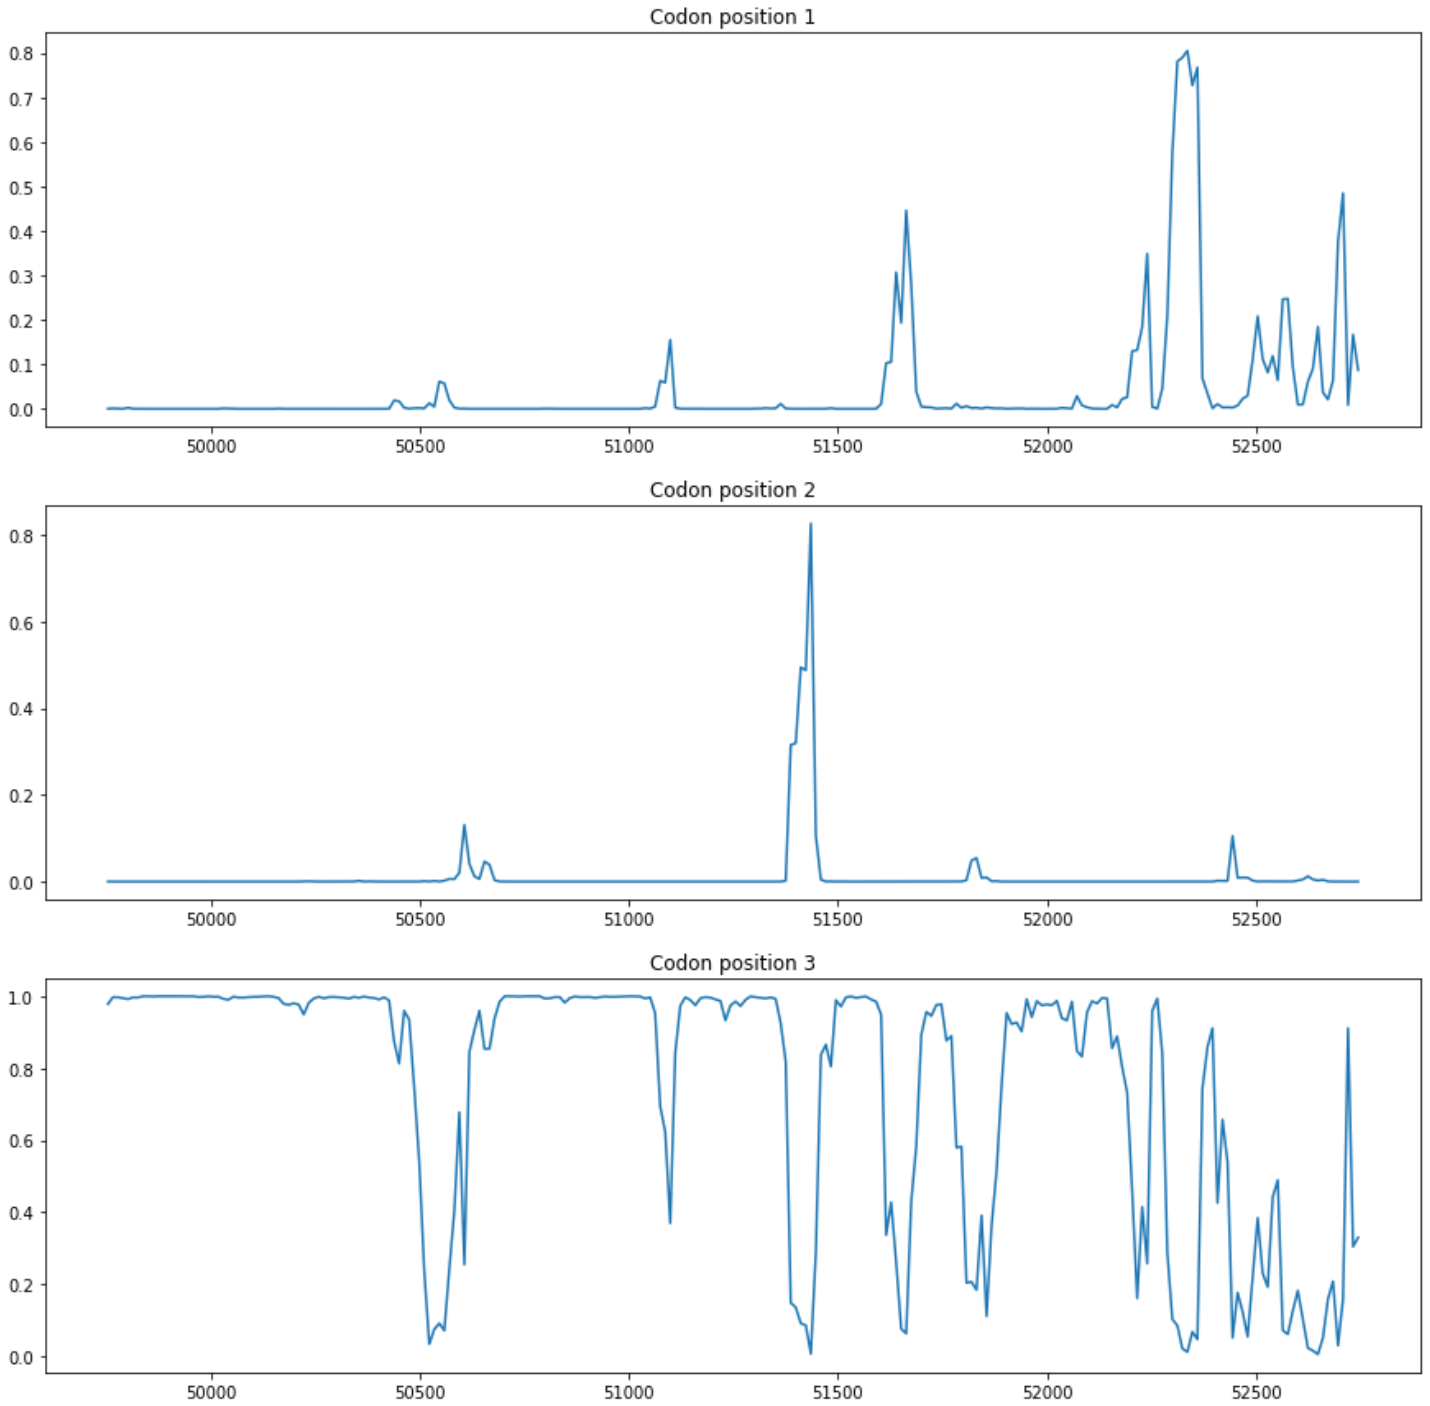
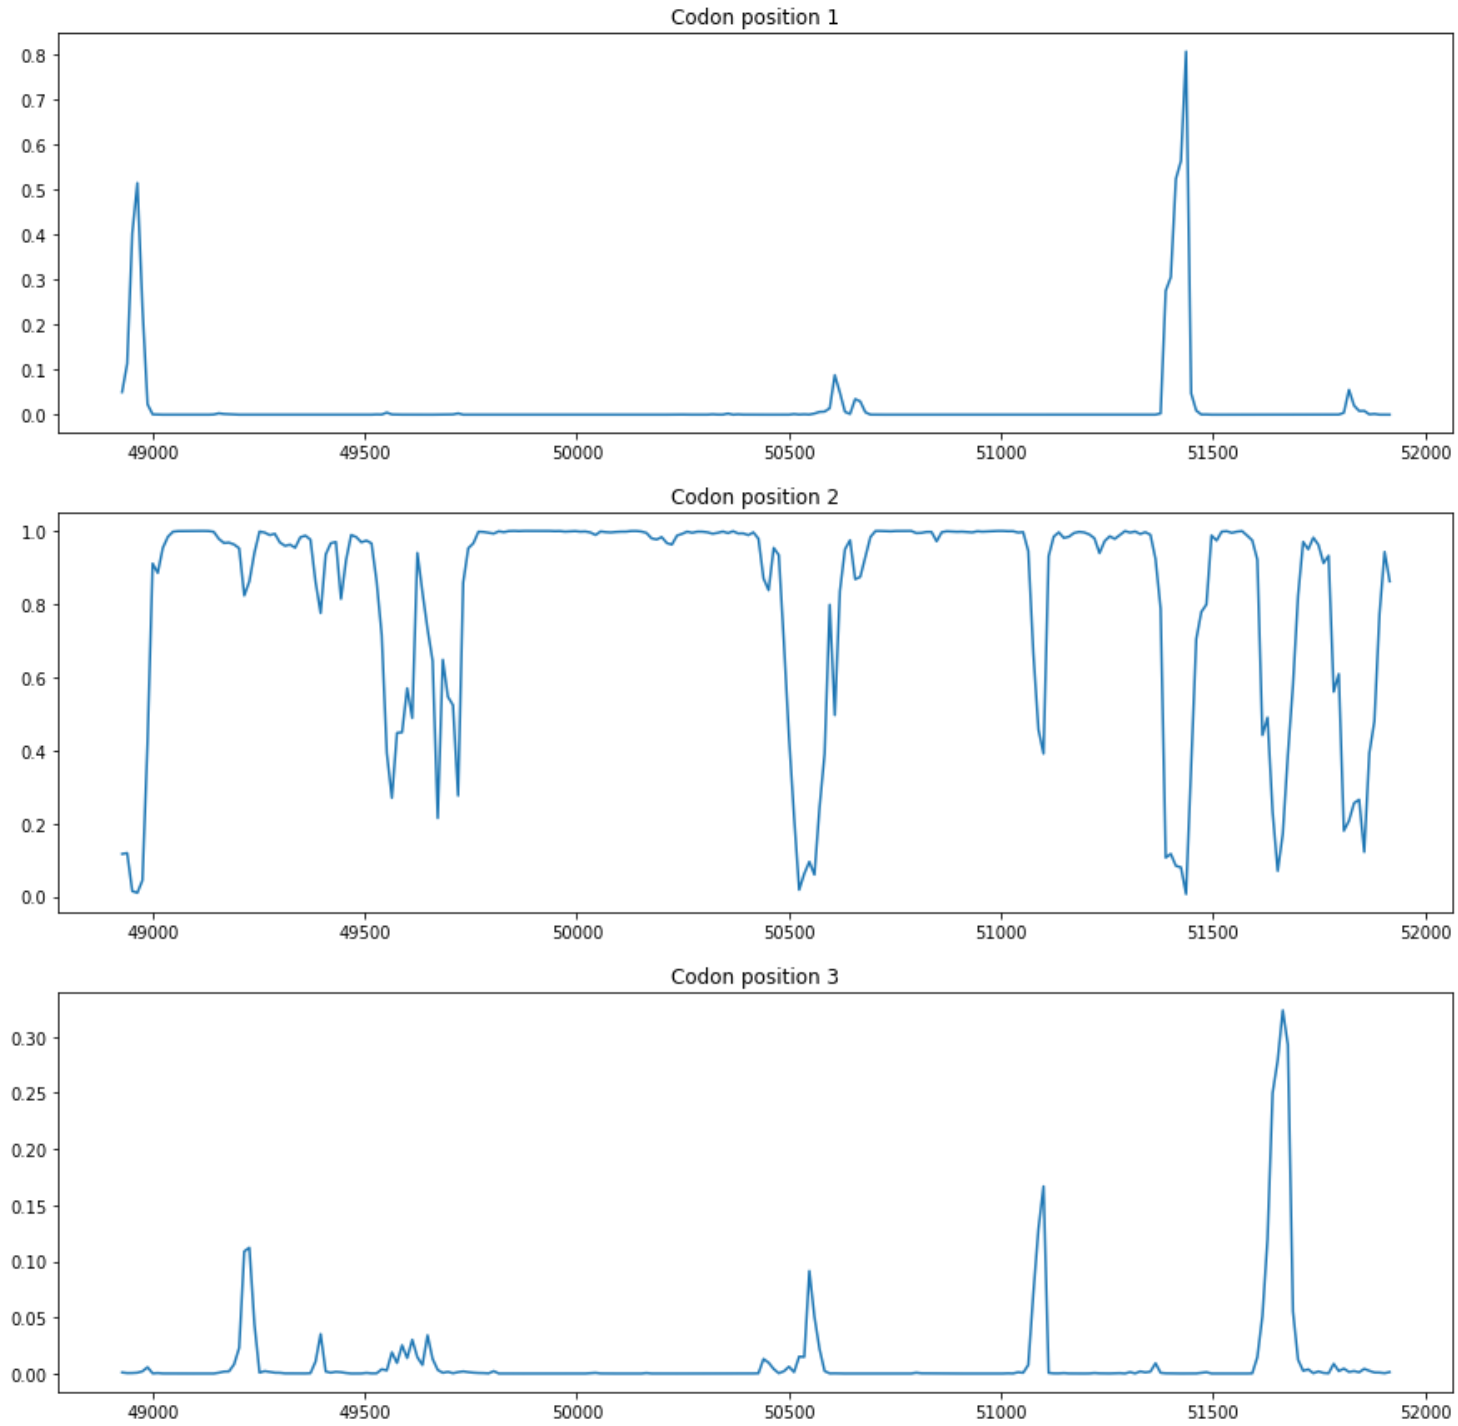
Update chosen sequence

diff --git a/README.md b/README.md
@@ -1,3 +1,10 @@
 # hse22_hw3 Ershov Ivan
 
+- выбранный участок: 48928, 48928 + 3000
+
+- ген, который попадет в участок: 
+    - 49047..49739
+    - /locus_tag="TOL_RS00225"
+    - /old_locus_tag="TOL_0046"
+
 ![Alt text](/img/png.png "Title")
